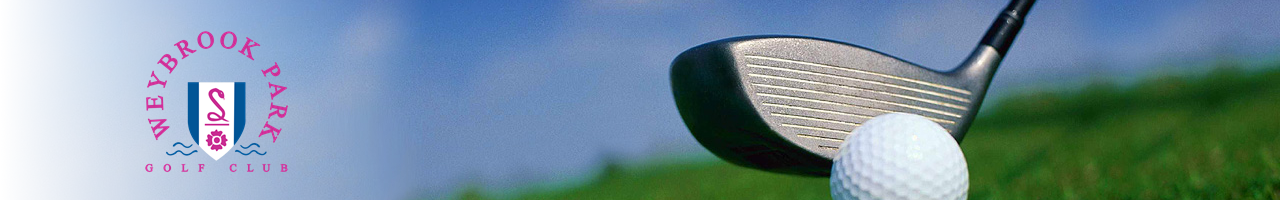
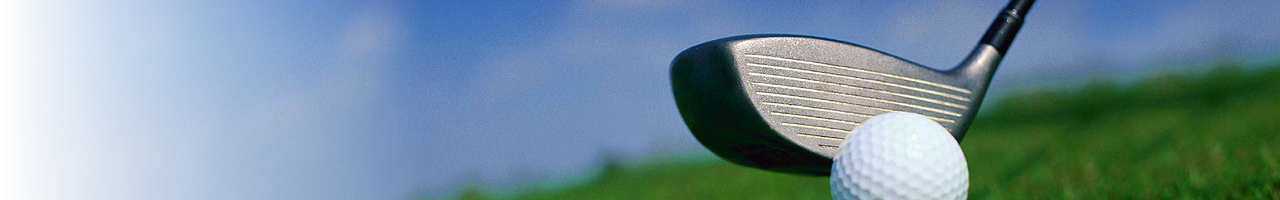
version3 for pride golf

diff --git a/app/assets/javascripts/application.js b/app/assets/javascripts/application.js
@@ -11,8 +11,8 @@
 
 $(document).ready(function() {
 	$("#team_search_btn").click(function() {
-		pro_name = $("#team_search").val();
-		window.location.href = "/admin?name="+pro_name;
+		search = $("#team_search").val();
+		window.location.href = "/admin?name="+search;
 	});
   
 	$("#team_clear_btn").click(function() {
@@ -22,13 +22,13 @@ $(document).ready(function() {
 
 	$("#add_team").click(function() {
 		name = $("#name").val();
-    amateur_1 = $("#amateur_1").val();
-    amateur_2 = $("#amateur_2").val();
-    amateur_3 = $("#amateur_3").val();
-		amateur_4 = $("#amateur_4").val();
+    pro1 = $("#pro1").val();
+    pro2 = $("#pro2").val();
+    pro3 = $("#pro3").val();
+		pro4 = $("#pro4").val();
     tee_hour = $("select#tee_hour").val();
     tee_mins = $("select#tee_mins").val();
-		$.post("/admin/add_team", {name:name,amateur_1:amateur_1,amateur_2:amateur_2,amateur_3:amateur_3,amateur_4:amateur_4,tee_hour:tee_hour,tee_mins:tee_mins}, function(data) {
+		$.post("/admin/add_team", {name:name,pro1:pro1,pro2:pro2,pro3:pro3,pro4:pro4,tee_hour:tee_hour,tee_mins:tee_mins}, function(data) {
 			if ( data.success ) {
 				$("#team_table").html(data.view);
 				$(".clear").val("");
@@ -42,28 +42,16 @@ $(document).ready(function() {
 });
 
 function updatePro(el) {
-	pro_id = $(el).siblings("input").attr("data-id");
-	score = $(el).siblings("input").val();
+	pro_id = $(el).attr("data-id");
+	score = $(el).val();
 	
 	$.post("/admin/update_pro_score", {pro_id:pro_id,score:score}, function(data) {
 		if (data.success) {
 			$(".thank-message").show().delay(1500).fadeOut(500);
+      $(el).parents(".team_row").find(".team_score").html(data.score);
 		} else {
 			$(".error-message.score").show().delay(1500).fadeOut(500);
 		}
-	});
-}
-
-function updateTeam(el) {
-	team_id = $(el).siblings("input").attr("data-id");
-	score = $(el).siblings("input").val();
-	
-	$.post("/admin/update_team_score", {team_id:team_id,score:score}, function(data) {
-		if (data.success) {
-			$(".thank-message").show().delay(1500).fadeOut(500);
-		} else {
-			$(".error-message.score").show().delay(1500).fadeOut(500);
-		}	
 	});
 }
 
@@ -74,10 +62,10 @@ function editTeam(id) {
       tee_hour: $("select#tee_hour").val(),
       tee_mins: $("select#tee_mins").val(),
       name: $("input#name").val(),
-      amateur_1: $("input#amateur_1").val(),
-      amateur_2: $("input#amateur_2").val(),
-      amateur_3: $("input#amateur_3").val(),
-			amateur_4: $("input#amateur_4").val()
+      pro1: $("input#pro1").val(),
+      pro2: $("input#pro2").val(),
+      pro3: $("input#pro3").val(),
+			pro4: $("input#pro4").val()
     }
 		$.post("/admin/update_team", params, function(data) {
 			if (data.success) {

diff --git a/app/assets/stylesheets/application.css b/app/assets/stylesheets/application.css
@@ -100,6 +100,16 @@ div#header {
   height: 200px;
 }
 
+div#header div#logo {
+  background-image: url(/assets/logo.png);
+	background-size: 100%;
+  background-position: center center;
+  background-repeat: no-repeat;
+	width: 380px;
+  height: 200px;
+	margin-left: 100px;
+}
+
 div#content div#scroll {
   overflow: hidden;
 }

diff --git a/app/controllers/admin_controller.rb b/app/controllers/admin_controller.rb
@@ -7,7 +7,9 @@ class AdminController < ApplicationController
 		@success = nil	
 		if params[:name]
 			@search = params[:name]
-			@teams = Team.where("name LIKE ? OR amateur_1 LIKE ? OR amateur_2 LIKE ? OR amateur_3 LIKE ? OR amateur_4 LIKE ?", "%#{params[:name]}%", "%#{params[:name]}%", "%#{params[:name]}%", "%#{params[:name]}%", "%#{params[:name]}%").order("tee_time ASC")
+			ids = Team.where("name LIKE ?", "%#{params[:name]}%").map{|team| team.id}
+			ids += Pro.where("name LIKE ?", "%#{params[:name]}%").map{|pro| pro.team.id}
+			@teams = Team.where(:id => ids).order("tee_time ASC")
 		else
 			@teams = Team.order("tee_time ASC")
 		end
@@ -15,8 +17,15 @@ class AdminController < ApplicationController
 
 	def add_team
 		begin
-			@team = Team.new(:name => params[:name], :amateur_1 => params[:amateur_1], :amateur_2 => params[:amateur_2], :amateur_3 => params[:amateur_3], :amateur_4 => params[:amateur_4], :tee_time => "#{params[:tee_hour]}:#{params[:tee_mins]}:00")
-			@team.save!
+			team = Team.create(:name => params[:name], :tee_time => "#{params[:tee_hour]}:#{params[:tee_mins]}:00")
+			pro1 = Pro.create(:name => params[:pro1])
+			pro2 = Pro.create(:name => params[:pro2])
+			pro3 = Pro.create(:name => params[:pro3])
+			pro4 = Pro.create(:name => params[:pro4])
+			TeamProMapping.create(:team_id => team.id, :pro_id => pro1.id)
+			TeamProMapping.create(:team_id => team.id, :pro_id => pro2.id)
+			TeamProMapping.create(:team_id => team.id, :pro_id => pro3.id)
+			TeamProMapping.create(:team_id => team.id, :pro_id => pro4.id)
       @teams = Team.order("tee_time ASC")
 			render :json => {:success => true, :view => render_to_string(:partial => "team_table")}
 		rescue StandardError => e
@@ -29,20 +38,7 @@ class AdminController < ApplicationController
 			@pro = Pro.find(params[:pro_id])
 			@pro.score = params[:score]
 			@pro.save!
-			render :json => {:success => true}
-		rescue StandardError => e
-			puts e.message
-			puts e.backtrace
-			render :json => {:success => false}
-		end
-	end
-  
-	def update_team_score
-		begin 
-			@team = Team.find(params[:team_id])
-			@team.score = params[:score]
-			@team.save!
-			render :json => {:success => true}
+			render :json => {:success => true, :score => @pro.team.score}
 		rescue StandardError => e
 			puts e.message
 			puts e.backtrace
@@ -56,7 +52,10 @@ class AdminController < ApplicationController
   
   def update_team
     team = Team.find(params[:id])
-    team.update_attributes({name: params[:name], amateur_1: params[:amateur_1], amateur_2: params[:amateur_2], amateur_3: params[:amateur_3], amateur_4: params[:amateur_4], tee_time: "#{params[:tee_hour]}:#{params[:tee_mins]}:00"})
+    team.update_attributes({:name => params[:name], :tee_time => "#{params[:tee_hour]}:#{params[:tee_mins]}:00"})
+		team.pros.each_with_index do |pro,i|
+			pro.update_attributes({:name => params["pro#{i+1}"]})
+		end
     render :json => {:success => true}
   rescue StandardError => e
     puts e.message
@@ -67,6 +66,10 @@ class AdminController < ApplicationController
 	def delete_team
 		begin 
 			@team = Team.find(params[:id])
+			@mappings = @team.team_pro_mappings
+			@pros = Pro.where(:id => @mappings.map{|mapping| mapping.pro_id})
+			@mappings.destroy_all
+			@pros.destroy_all
 			@id = @team.id
 			@team.destroy
 			render :json => {:success => true, :team_id => @id}

diff --git a/db/schema.rb b/db/schema.rb
@@ -11,7 +11,7 @@
 #
 # It's strongly recommended to check this file into your version control system.
 
-ActiveRecord::Schema.define(:version => 20140709104743) do
+ActiveRecord::Schema.define(:version => 20140613151824) do
 
   create_table "pros", :force => true do |t|
     t.string   "name",                      :null => false
@@ -22,24 +22,26 @@ ActiveRecord::Schema.define(:version => 20140709104743) do
   end
 
   create_table "site_settings", :force => true do |t|
-    t.string   "config_key",   :default => "", :null => false
-    t.string   "config_value",                 :null => false
+    t.string   "config_key",   :null => false
+    t.string   "config_value", :null => false
+    t.datetime "created_at"
+    t.datetime "updated_at"
+  end
+
+  create_table "team_pro_mappings", :force => true do |t|
+    t.integer  "team_id",    :null => false
+    t.integer  "pro_id",     :null => false
     t.datetime "created_at"
     t.datetime "updated_at"
   end
 
   create_table "teams", :force => true do |t|
-    t.string   "amateur_1",                                                           :null => false
-    t.integer  "score",                            :default => 0,                     :null => false
+    t.string   "name",                                          :null => false
+    t.integer  "score",      :default => 0,                     :null => false
     t.datetime "created_at"
     t.datetime "updated_at"
-    t.binary   "image",      :limit => 2147483647
-    t.string   "amateur_2"
-    t.string   "amateur_3"
-    t.integer  "pro_id"
-    t.time     "tee_time",                         :default => '2000-01-01 00:00:00', :null => false
-    t.string   "amateur_4"
-    t.string   "name"
+    t.binary   "image"
+    t.time     "tee_time",   :default => '2000-01-01 00:00:00', :null => false
   end
 
 end

diff --git a/app/controllers/application_controller.rb b/app/controllers/application_controller.rb
@@ -16,8 +16,15 @@ class ApplicationController < ActionController::Base
   end
   
   def get_pros
-    @pros = Pro.where("score > 0").order("score ASC, name ASC")+Pro.where("score = 0").sort{|a,b| a.team["tee_time"] - b.team["tee_time"]}
-    render :partial => "pros"
+    @pros = Pro.where("score > 0").order("score DESC, name ASC").limit(15)
+		if @pros.first
+    	render :partial => "pros"
+		else
+	    teams = Team.all.map{|team| expand_team(team)}
+	    teams.sort!{|a,b| b["score"]-a["score"]}
+	    @teams = teams.select{|team| team["score"] != 0}+teams.select{|team| team["score"] == 0}.sort{|a,b| a["tee_time"] - b["tee_time"]}
+	    render :partial => "teams"
+		end
   end
 	
   def get_image
@@ -38,6 +45,11 @@ class ApplicationController < ActionController::Base
   
   def expand_team team
     xteam = team.attributes
+		xteam["score"] = team.score
+		xteam["pro1"] = team.pros[0].name rescue nil
+		xteam["pro2"] = team.pros[1].name rescue nil
+		xteam["pro3"] = team.pros[2].name rescue nil
+		xteam["pro4"] = team.pros[3].name rescue nil
     xteam
   end
 end

diff --git a/config/routes.rb b/config/routes.rb
@@ -8,7 +8,6 @@ Golf::Application.routes.draw do
 	get "/admin" => "admin#index"
 	post "/admin/add_team"  => "admin#add_team"
   post "/admin/update_pro_score"  => "admin#update_pro_score"
-	post "/admin/update_team_score"  => "admin#update_team_score"
 	post "/admin/delete_team"  => "admin#delete_team"
   get "/admin/add_image/:id" => "admin#add_image"
   post "/admin/add_image/:id" => "admin#save_image"

diff --git a/app/models/team.rb b/app/models/team.rb
@@ -1,5 +1,10 @@
 class Team < ActiveRecord::Base
-	belongs_to :pro
-  
-	validates :score, numericality: true
+	has_many :team_pro_mappings
+	has_many :pros, :through => :team_pro_mappings
+	
+	def score
+		scores = self.pros.map{|pro| pro.score}
+		sum = scores.inject{|sum,x|sum+x}
+		return (pros.count < 4 ? sum : sum-scores.min)
+	end
 end

diff --git a/db/migrate/20140612093158_create_team_pro_mappings.rb b/db/migrate/20140612093158_create_team_pro_mappings.rb
@@ -1,0 +1,9 @@
+class CreateTeamProMappings < ActiveRecord::Migration
+  def change
+    create_table :team_pro_mappings do |t|
+      t.integer :team_id, :null => false
+      t.integer :pro_id, :null => false
+      t.timestamps
+    end
+  end
+end

diff --git a/db/migrate/20140610144447_add_initial_tables.rb b/db/migrate/20140610144447_add_initial_tables.rb
@@ -8,7 +8,6 @@ class AddInitialTables < ActiveRecord::Migration
     
     create_table :teams do |t|
       t.string :name, :null => false
-      t.integer :score, :null => false, :default => 0
       t.timestamps
     end
     

diff --git a/app/models/pro.rb b/app/models/pro.rb
@@ -1,5 +1,6 @@
 class Pro < ActiveRecord::Base
-	has_one :team
+	has_one :team_pro_mapping
+	has_one :team, :through => :team_pro_mapping
   
 	validates :score, numericality: true
 end

diff --git a/app/models/team_pro_mapping.rb b/app/models/team_pro_mapping.rb
@@ -1,0 +1,4 @@
+class TeamProMapping < ActiveRecord::Base
+	belongs_to :team
+	belongs_to :pro
+end
